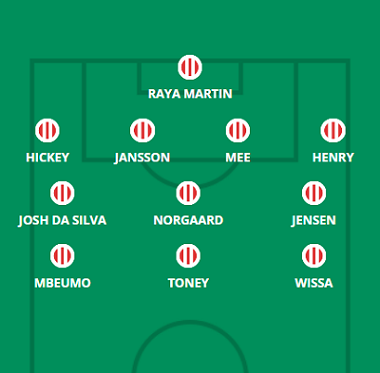
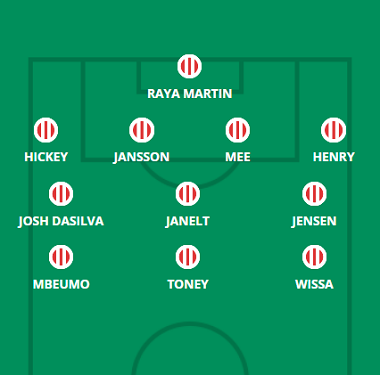
mudança arsenal e brentford

diff --git a/escalacoes.html b/escalacoes.html
@@ -66,7 +66,7 @@
             <hgroup>
                 <h1> Provável Escalação</h1>
                 <h2 class="direita"> por FabioVascão </h2>
-                <h3 class="direita"> Atualizado em 30/Agosto/2022 </h3>
+                <h3 class="direita"> Atualizado em 02/Setembro/2022 </h3>
             </hgroup>
     
             <h2 class="time"> <img src="_fotos/_logos/logoarsenal.png" />Arsenal</h2>
@@ -75,9 +75,9 @@
                     <img src="_fotos/_dinamicas/arsenal.png" />
                 </figure>
             </aside>
-                <div class="escalacao"><h2 class="titulo">Ultimas Notícias</h2> <h4><p>Reiss Nelson (lesão múscular) e Thomas Partey (lesão na coxa) parecem ter se juntado à margem por Mohamed Elneny (lesão na coxa), com reportagens na terça-feira sugerindo que o egípcio enfrenta uma lesão. A falta de uma conferência de imprensa pré-jogo de Mikel Arteta acaba por nos deixar no escuro sobre esse trio e Oleksandr Zinchenko (lesão no joelho), mas as sugestões são de que o ucraniano tem uma chance de se recuperar para o jogo do Aston Villa depois de sua omissão na 4° Rodada foi feito por motivos de precaução. Zinchenko é uma opção no lugar de Kieran Tierney ou como suplente de Partey/Elneny no número seis, enquanto Ben White e Albert Sambi Lokonga são alternativas no meio-campo central em papéis não naturais para a dupla. Arteta manteve uma equipe inalterada nos últimos dois amistosos de pré-temporada e nos três primeiros jogos da Premier League da temporada, com apenas lesões forçando sua mão contra o Fulham. A reviravolta apertada na próxima semana pode apresentar oportunidades iniciais para os atuais jogadores como Emile Smith Rowe, Eddie Nketiah e Takehiro Tomiyasu, mas mesmo assim, os agendadores foram gentis com os Gunners, pois são o único clube com mais de 90 horas de recuperação. tempo para ambas as semanas de jogo 5 e 6.</p></h4><br>
-                    <h4><strong>Jogadores fora da próxima partida:</strong> Nelson, Pepe e Nuno Tavares</h4><br><br>
-                    <h4><strong>Jogadores dúvidas:</strong> Elneny, Partey e Zinchenko</h4>
+                <div class="escalacao"><h2 class="titulo">Ultimas Notícias</h2> <h4><p>Reiss Nelson (lesão múscular), Thomas Partey (lesão na coxa) e Mohamed Elneny (lesão na coxa) permanecem de fora, enquanto Mikel Arteta disse no pré-jogo desta sexta-feira que Oleksandr Zinchenko (lesão no joelho) "ainda não conseguiu treinar com a equipe" - embora o chefe dos Gunners é conhecido por jogar o estranho arenque vermelho nas notícias de sua equipe no passado. Também não recebemos muito de Aaron Ramsdale (lesão múscular) ou Martin Odegaard (pancada), com Arteta dizendo apenas que a dupla "está sendo avaliada" e "esperamos que treinasse com a equipe" no sábado. Matt Turner e Emile Smith Rowe são os representantes óbvios de Ramsdale e Odegaard caso o pior cenário aconteça, enquanto a ausência de Ben White nas imagens do campo de treinamento na sexta-feira - pode, é claro, haver uma explicação inocente para isso - levanta o possibilidade de titular para Takehiro Tomiyasu na lateral-direita. Quanto à 'fadiga', os agendadores têm sido gentis com os Gunners, pois são o único clube com mais de 90 horas de tempo de recuperação para as semanas 5 e 6. Parece mais provável, então, que jogadores marginais como Rob Holding, Cedric Soares , Eddie Nketiah e Fabio Vieira terão mais chances de brilhar na UEFA Europa League na próxima quinta-feira.</p></h4><br>
+                    <h4><strong>Jogadores fora da próxima partida:</strong> Elneny, Nelson e Partey</h4><br><br>
+                    <h4><strong>Jogadores dúvidas:</strong> Oodegard, Ramsdale e Zinchenko</h4>
                 </div> 
         </header>
         </article>

diff --git a/brentford.html b/brentford.html
@@ -66,7 +66,7 @@
             <hgroup>
                 <h1> Provável Escalação</h1>
                 <h2 class="direita"> por FabioVascão </h2>
-                <h3 class="direita"> Atualizado em 30/Agosto/2022 </h3>
+                <h3 class="direita"> Atualizado em 02/Setembro/2022 </h3>
             </hgroup>
     
             <h2 class="time"> <img src="_fotos/_logos/logobrentford.png" />Brentford</h2>
@@ -75,10 +75,10 @@
                     <img src="_fotos/_dinamicas/brentford.png" />
                 </figure>
             </aside>
-                <div class="escalacao"><h2 class="titulo">Ultimas Notícias</h2> <h4><p>Sergi Canos (lesão na coxa) e Ethan Pinnock (lesão no joelho) estão de fora da viagem de Brentford ao Crystal Palace, enquanto Pontus Jansson (lesão no pé) está "toca e vai" e Kristoffer Ajer (ritmo de jogo) pode ser retido por mais tempo de jogo com o B-team antes de ser empurrado de volta ao futebol da primeira equipe. Thomas Frank reiterou novamente que a nova contratação, Mikkel Damsgaard, não está pronta para começar, por isso, o dever de banco acena para o jovem dinamarquês. Frank discutiu a rotação em sua entrevista pré-jogo, dizendo que "quatro/cinco [mudanças] são demais, mas uma é [não suficiente]" e que o "time que se saiu bem" deve ser recompensado. Jansson substituirá Zanka se for aprovado, enquanto Vitaly Janelt tem uma das maiores chances de ser convocado - seja como meio-campista central às custas de Josh Dasilva ou como terceiro zagueiro. Frank começou com um 4-3-3 contra times fora dos "seis grandes" nos últimos seis meses, mas essa formação ainda parece vulnerável defensivamente, então Mads Roerslev ou Janelt no lugar de Yoane Wissa é uma possibilidade se o técnico do Brentford desejar reverter para um 3-5-2. O fraco desempenho de Wissa está em risco, mesmo que Frank continue com um 4-3-3, já que Keane Lewis-Potter está se esforçando muito para começar.</p></h4><br>
-                    <h4><strong>Jogadores fora da próxima partida:</strong> Balcombe, Canos, Forss, Pinnock e Thompson
+                <div class="escalacao"><h2 class="titulo">Ultimas Notícias</h2> <h4><p>Christian Norgaard (lesão no tendão de aquiles) permanece de fora junto com Sergi Canos (lesão na coxa) e Ethan Pinnock (lesão no joelho), mas Pontus Jansson (lesão no pé) foi passado em forma e até mesmo o ausente de longa data Kristoffer Ajer (condicionamento físico) está "batendo na porta " depois de duas corridas para o lado B. Jansson para Zanka parece ser uma mudança óbvia se o primeiro estiver totalmente recuperado, enquanto Josh Dasilva e Yoane Wissa esperam que os rebaixamentos de terça-feira para o banco tenham sido feitos por motivos relacionados ao condicionamento físico devido à semana de três jogos; Shandon Baptiste e Keane Lewis-Potter foram os homens que os substituíram na escalação em Selhurst Park. Mikkel Damsgaard pode ter que se contentar com o banco mais uma vez, no entanto: Frank afirmou repetidamente nas últimas semanas que o dinamarquês não está pronto para começar e ele parecia enferrujado em sua última participação no segundo tempo no Crystal Palace.</p></h4><br>
+                    <h4><strong>Jogadores fora da próxima partida:</strong> Canos, Forss, Norgaard, Pinnock e Thompson
                     </h4><br><br>
-                    <h4><strong>Jogadores dúvidas:</strong>Ajer e Jansson</h4>
+                    <h4><strong>Jogadores dúvidas:</strong>Ajer</h4>
                 </div> 
         </header>
         </article>
